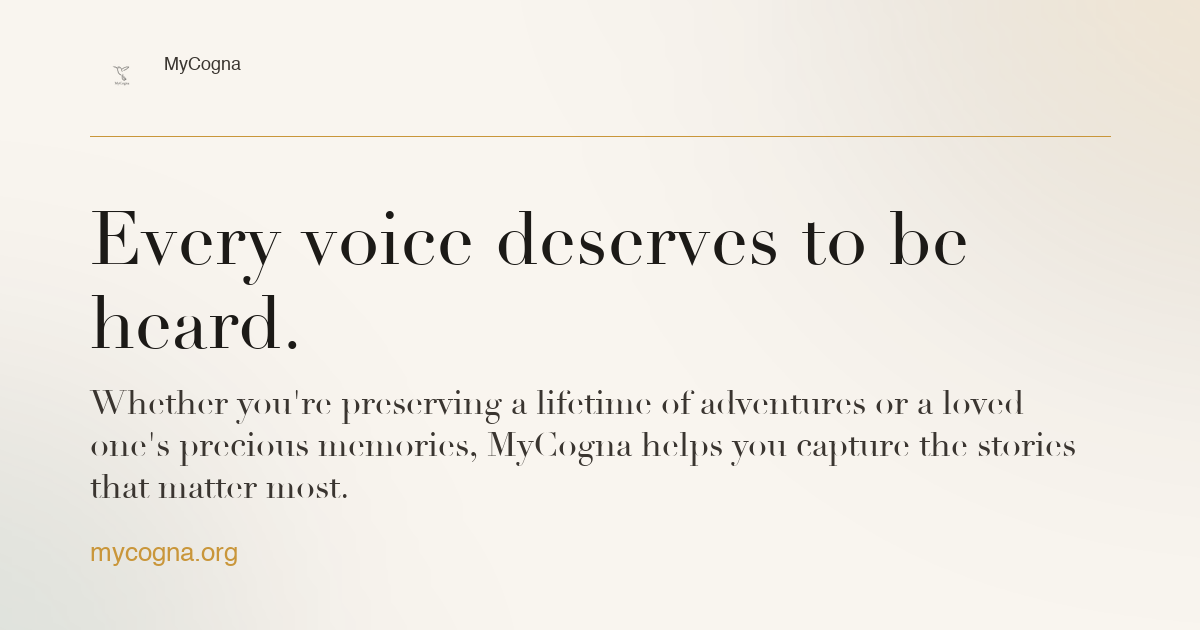
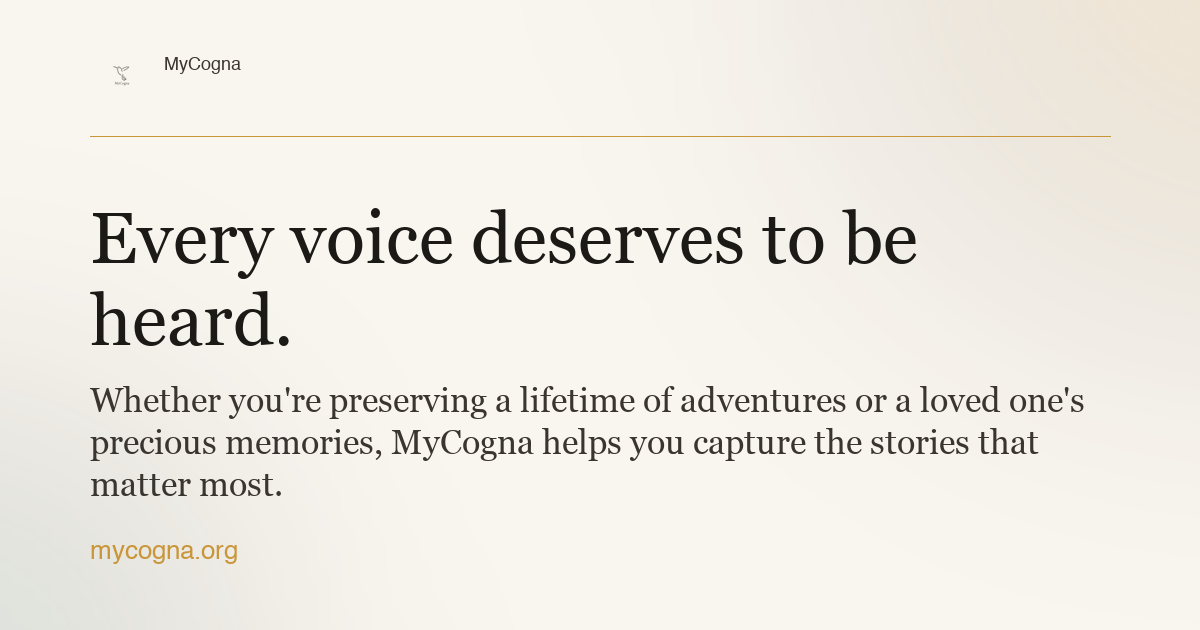
Switch OG image to Georgia font for better legibility; bump to v=4

diff --git a/apps/cogna/static/index.html b/apps/cogna/static/index.html
@@ -9,10 +9,10 @@
   <meta property="og:site_name" content="MyCogna" />
   <meta property="og:title" content="MyCogna — Every voice deserves to be heard" />
   <meta property="og:description" content="Preserve the voices you love. MyCogna helps families capture, keep, and share the stories that matter most." />
-  <meta property="og:image" content="https://mycogna.org/static/og-image.png?v=3" />
+  <meta property="og:image" content="https://mycogna.org/static/og-image.png?v=4" />
   <meta property="og:url" content="https://mycogna.org/" />
   <meta name="twitter:card" content="summary_large_image" />
-  <meta name="twitter:image" content="https://mycogna.org/static/og-image.png?v=3" />
+  <meta name="twitter:image" content="https://mycogna.org/static/og-image.png?v=4" />
   <link href="https://fonts.googleapis.com/css2?family=Cormorant+Garamond:ital,wght@0,300;0,400;0,500;1,300;1,400&family=DM+Sans:wght@300;400;500&display=swap" rel="stylesheet">
   <style>
     *, *::before, *::after { box-sizing: border-box; margin: 0; padding: 0; }

diff --git a/apps/cogna/static/family.html b/apps/cogna/static/family.html
@@ -9,10 +9,10 @@
   <meta property="og:site_name" content="MyCogna" />
   <meta property="og:title" content="MyCogna — For Families & Caregivers" />
   <meta property="og:description" content="Help a parent, grandparent, or loved one preserve their voice and stories for the whole family." />
-  <meta property="og:image" content="https://mycogna.org/static/og-image.png?v=3" />
+  <meta property="og:image" content="https://mycogna.org/static/og-image.png?v=4" />
   <meta property="og:url" content="https://mycogna.org/family" />
   <meta name="twitter:card" content="summary_large_image" />
-  <meta name="twitter:image" content="https://mycogna.org/static/og-image.png?v=3" />
+  <meta name="twitter:image" content="https://mycogna.org/static/og-image.png?v=4" />
   <link href="https://fonts.googleapis.com/css2?family=Cormorant+Garamond:ital,wght@0,300;0,400;0,500;1,300;1,400&family=DM+Sans:wght@300;400;500&display=swap" rel="stylesheet">
   <style>
     *, *::before, *::after { box-sizing: border-box; margin: 0; padding: 0; }

diff --git a/apps/cogna/static/gift.html b/apps/cogna/static/gift.html
@@ -8,10 +8,10 @@
   <meta property="og:site_name" content="MyCogna" />
   <meta property="og:title" content="Give the Gift of Story — MyCogna" />
   <meta property="og:description" content="Give someone the gift of preserving their voice and stories. A meaningful gift for any occasion." />
-  <meta property="og:image" content="https://mycogna.org/static/og-image.png?v=3" />
+  <meta property="og:image" content="https://mycogna.org/static/og-image.png?v=4" />
   <meta property="og:url" content="https://mycogna.org/gift" />
   <meta name="twitter:card" content="summary_large_image" />
-  <meta name="twitter:image" content="https://mycogna.org/static/og-image.png?v=3" />
+  <meta name="twitter:image" content="https://mycogna.org/static/og-image.png?v=4" />
   <link href="https://fonts.googleapis.com/css2?family=Cormorant+Garamond:ital,wght@0,300;0,400;0,500;1,300;1,400&family=DM+Sans:wght@300;400;500&display=swap" rel="stylesheet">
   <style>
     *, *::before, *::after { box-sizing: border-box; margin: 0; padding: 0; }

diff --git a/apps/cogna/static/legacy.html b/apps/cogna/static/legacy.html
@@ -9,10 +9,10 @@
   <meta property="og:site_name" content="MyCogna" />
   <meta property="og:title" content="MyCogna — For Organizations" />
   <meta property="og:description" content="Capture institutional knowledge and legacy stories from your entire team or community." />
-  <meta property="og:image" content="https://mycogna.org/static/og-image.png?v=3" />
+  <meta property="og:image" content="https://mycogna.org/static/og-image.png?v=4" />
   <meta property="og:url" content="https://mycogna.org/legacy" />
   <meta name="twitter:card" content="summary_large_image" />
-  <meta name="twitter:image" content="https://mycogna.org/static/og-image.png?v=3" />
+  <meta name="twitter:image" content="https://mycogna.org/static/og-image.png?v=4" />
   <link href="https://fonts.googleapis.com/css2?family=Cormorant+Garamond:ital,wght@0,300;0,400;0,500;1,300;1,400&family=DM+Sans:wght@300;400;500&display=swap" rel="stylesheet">
   <style>
     *, *::before, *::after { box-sizing: border-box; margin: 0; padding: 0; }

diff --git a/apps/cogna/static/individual.html b/apps/cogna/static/individual.html
@@ -9,10 +9,10 @@
   <meta property="og:site_name" content="MyCogna" />
   <meta property="og:title" content="MyCogna — For Individuals" />
   <meta property="og:description" content="Record your stories. Deepen them with AI. Build a memoir that lasts." />
-  <meta property="og:image" content="https://mycogna.org/static/og-image.png?v=3" />
+  <meta property="og:image" content="https://mycogna.org/static/og-image.png?v=4" />
   <meta property="og:url" content="https://mycogna.org/individual" />
   <meta name="twitter:card" content="summary_large_image" />
-  <meta name="twitter:image" content="https://mycogna.org/static/og-image.png?v=3" />
+  <meta name="twitter:image" content="https://mycogna.org/static/og-image.png?v=4" />
   <link href="https://fonts.googleapis.com/css2?family=Cormorant+Garamond:ital,wght@0,300;0,400;0,500;1,300;1,400&family=DM+Sans:wght@300;400;500&display=swap" rel="stylesheet">
   <style>
     *, *::before, *::after { box-sizing: border-box; margin: 0; padding: 0; }

diff --git a/apps/cogna/static/contact.html b/apps/cogna/static/contact.html
@@ -8,10 +8,10 @@
   <meta property="og:site_name" content="MyCogna" />
   <meta property="og:title" content="Contact Us — MyCogna" />
   <meta property="og:description" content="Have a question or need help? We'd love to hear from you." />
-  <meta property="og:image" content="https://mycogna.org/static/og-image.png?v=3" />
+  <meta property="og:image" content="https://mycogna.org/static/og-image.png?v=4" />
   <meta property="og:url" content="https://mycogna.org/contact" />
   <meta name="twitter:card" content="summary_large_image" />
-  <meta name="twitter:image" content="https://mycogna.org/static/og-image.png?v=3" />
+  <meta name="twitter:image" content="https://mycogna.org/static/og-image.png?v=4" />
   <link href="https://fonts.googleapis.com/css2?family=Cormorant+Garamond:ital,wght@0,300;0,400;0,500;1,300;1,400&family=DM+Sans:wght@300;400;500&display=swap" rel="stylesheet">
   <style>
     *, *::before, *::after { box-sizing: border-box; margin: 0; padding: 0; }
